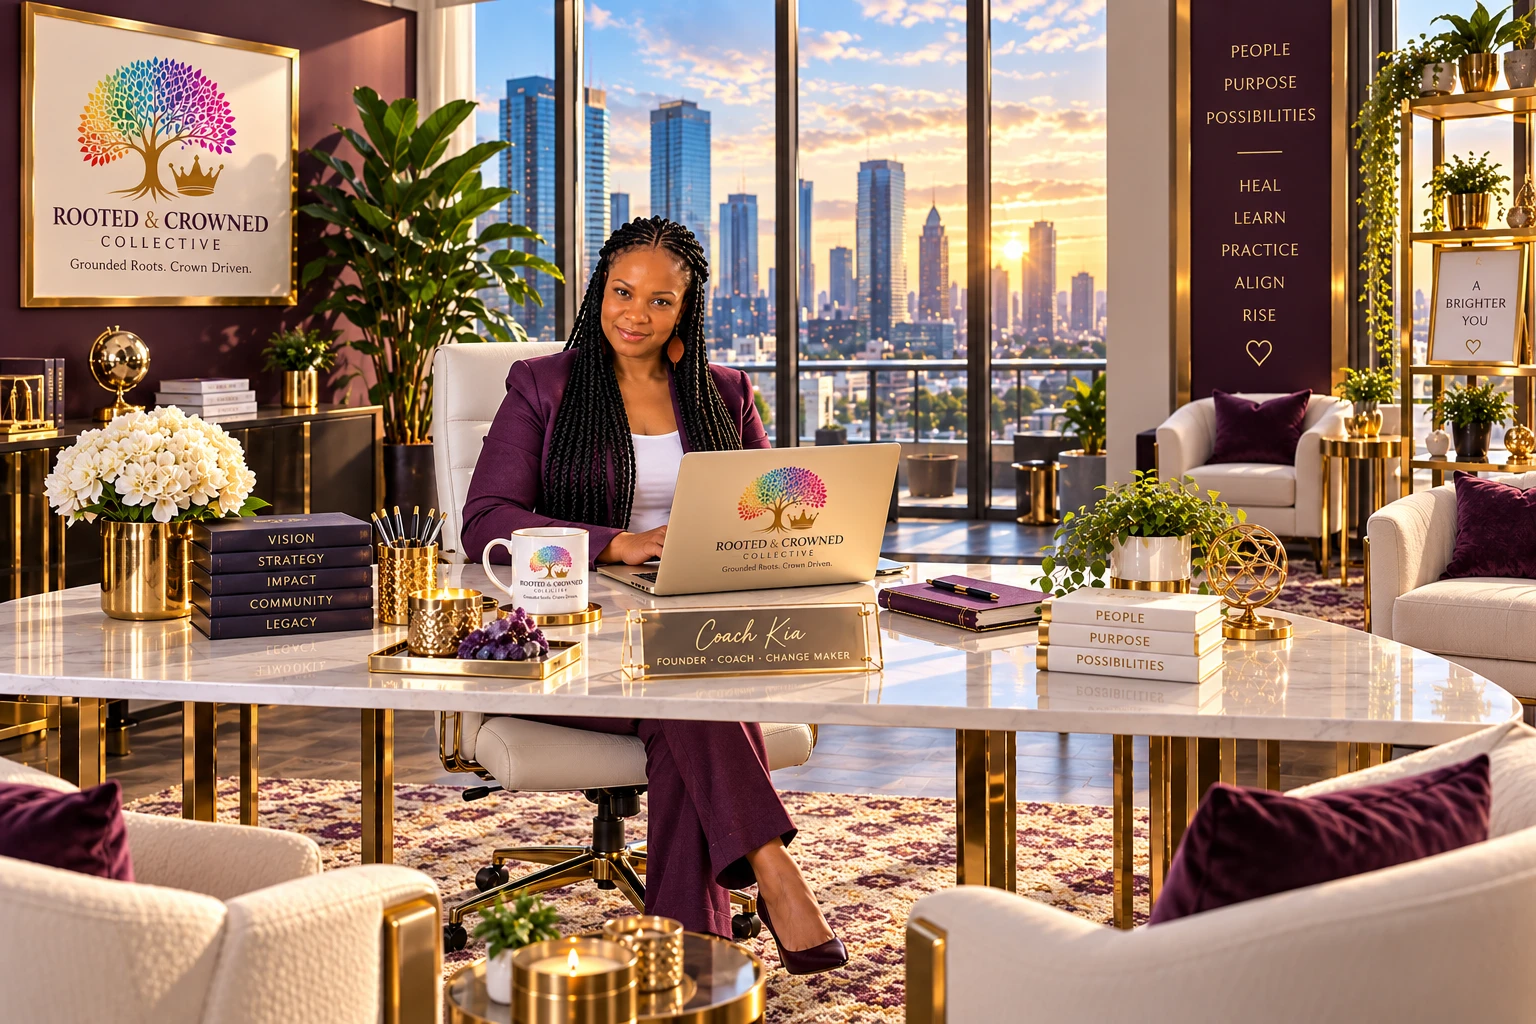
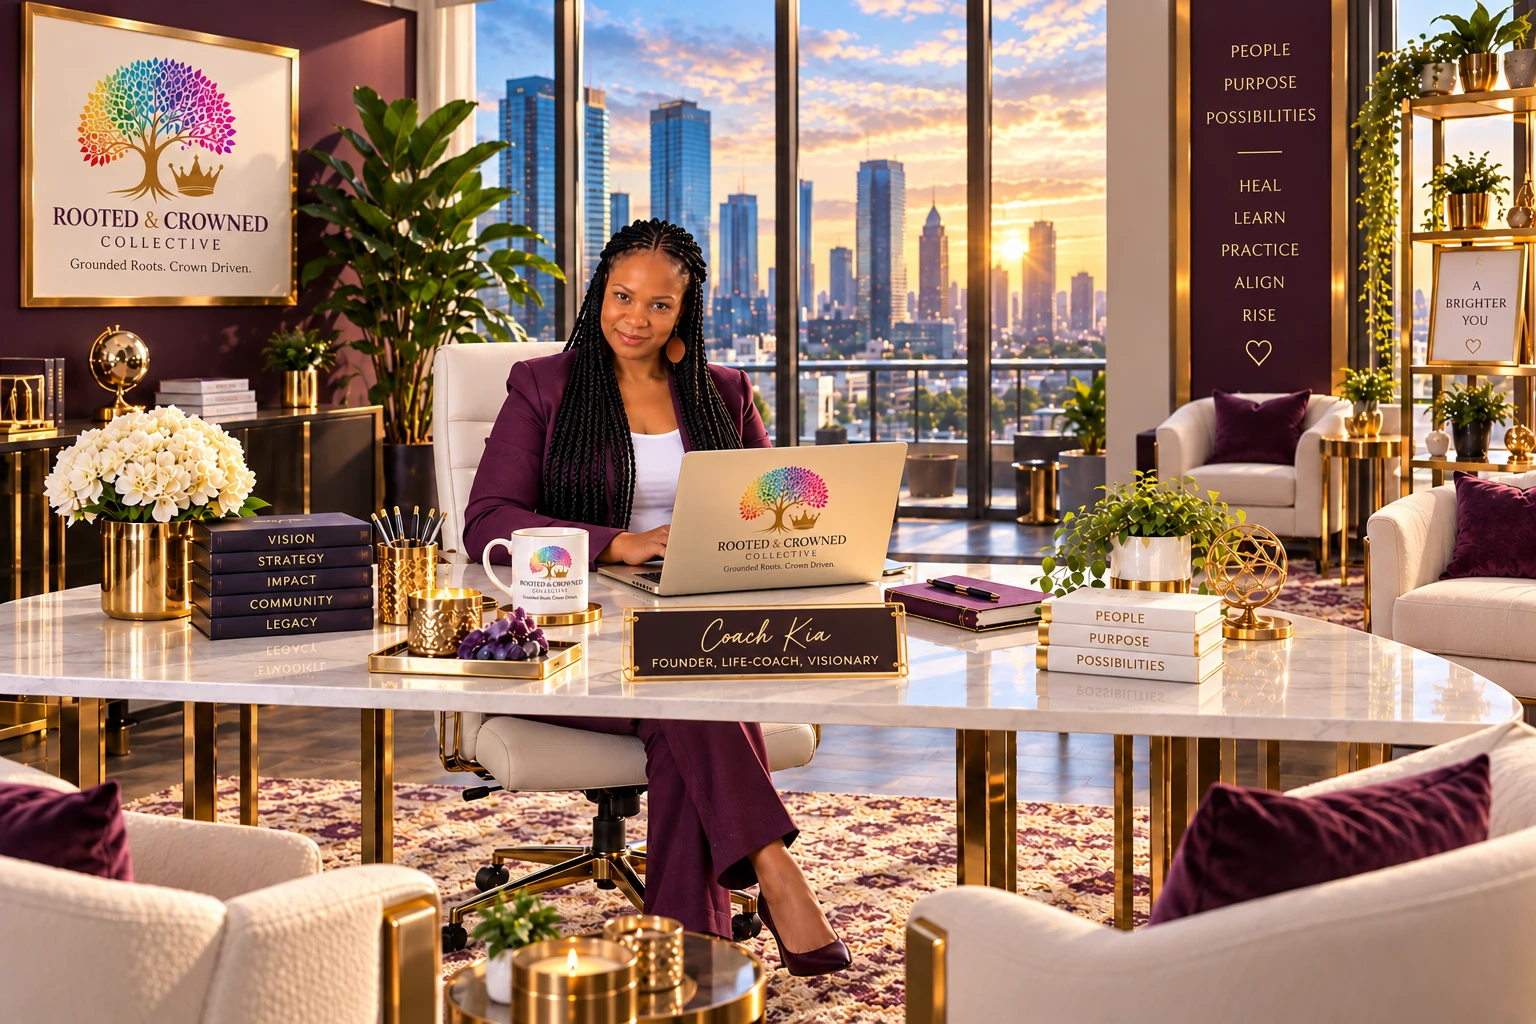
Update the Contact page hero photo
Swap in the corrected version with the updated nameplate
(Founder, Life-Coach, Visionary).

diff --git a/public/index.html b/public/index.html
@@ -1856,7 +1856,7 @@ a.branch:hover{border-color:var(--gold);border-left-color:var(--c);transform:tra
     <div class="spectrum spectrum--short"></div>
   </div></section>
   <section class="lib-banner2">
-    <img class="lib-banner-img2" src="assets/contact-hero.webp" alt="Coach Kia at her desk in a bright office overlooking a city skyline at sunset, with the Rooted and Crowned Collective tree logo framed on the wall and on her laptop, and a nameplate reading Coach Kia, Founder, Coach, Change Maker" width="1536" height="1024">
+    <img class="lib-banner-img2" src="assets/contact-hero.webp" alt="Coach Kia at her desk in a bright office overlooking a city skyline at sunset, with the Rooted and Crowned Collective tree logo framed on the wall and on her laptop, and a nameplate reading Coach Kia, Founder, Life-Coach, Visionary" width="1536" height="1024">
   </section>
   <section class="band band--ivory"><div class="wrap two">
     <form class="form" id="contact-form" novalidate>
